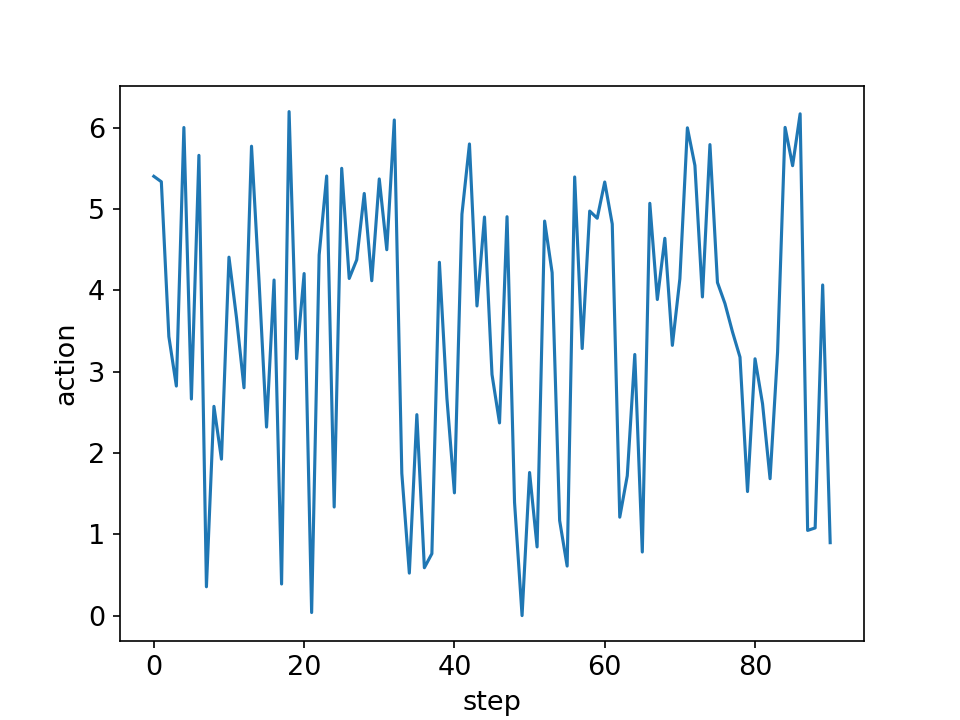
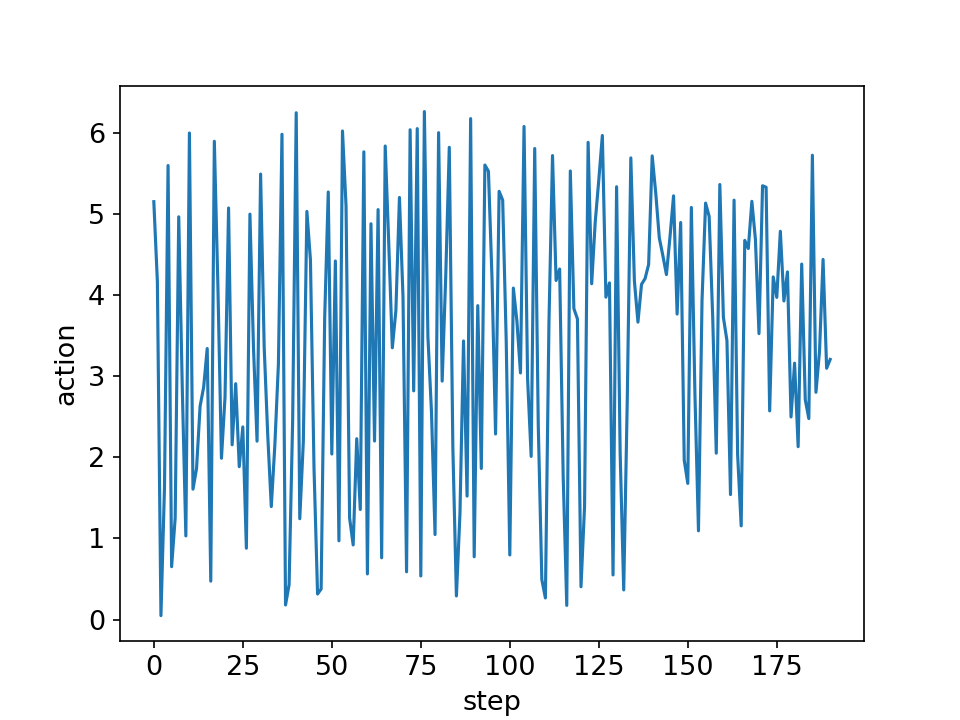
Runtime Plots

diff --git a/plot_utils.py b/plot_utils.py
@@ -6,26 +6,33 @@ import shutil
 class RLPlotter():
     def __init__(self, logger):
         self.logger = logger
-        self.plot_episode_actions()
-        self.plot_episode_losses()
-        self.plot_episode_steps()
-        self.plot_losses()
-        self.plot_episode_paths()
 
-    def plot_episode_losses(self):
+    def clear_plots(self):
+        clear_folder('episode_losses')
+        clear_folder('episode_actions')
+        clear_folder('episode_paths')
+        clear_folder('run_losses')
+        clear_folder('episode_steps')
+
+    def plot_last_episode(self):
+        self.plot_last_episode_losses()
+        self.plot_last_episode_actions()
+        self.plot_last_episode_paths()
+        self.plot_last_losses()
+        self.plot_last_episode_steps()
+
+    def plot_last_episode_losses(self):        
         folder = os.path.join('logs', 'episode_losses')
-        shutil.rmtree(folder, ignore_errors=True)
-        os.makedirs(folder, exist_ok=True)
-        for i in range(len(self.logger.episode_losses)):
-            x = np.arange(len(self.logger.episode_losses[i]))
-            plt.plot(x, self.logger.episode_losses[i])
-            plt.xlabel('step')
-            plt.ylabel('loss')
-            plt.title(f'Episode {i} MSE')
-            plt.savefig(os.path.join(folder, f'episode{i}_losses.png'))
-            plt.clf()
+        i = len(self.logger.episode_losses)-1
+        x = np.arange(len(self.logger.episode_losses[i]))
+        plt.plot(x, self.logger.episode_losses[i])
+        plt.xlabel('step')
+        plt.ylabel('loss')
+        plt.title(f'Episode {i} MSE')
+        plt.savefig(os.path.join(folder, f'episode{i}_losses.png'))
+        plt.clf()
 
-    def plot_losses(self):
+    def plot_last_losses(self):
         folder = os.path.join('logs', 'run_losses')
         shutil.rmtree(folder, ignore_errors=True)
         os.makedirs(folder, exist_ok=True)
@@ -37,7 +44,7 @@ class RLPlotter():
         plt.savefig(os.path.join(folder, 'run_losses.png'))
         plt.clf()
 
-    def plot_episode_steps(self):
+    def plot_last_episode_steps(self):
         folder = os.path.join('logs', 'episode_steps')
         shutil.rmtree(folder, ignore_errors=True)
         os.makedirs(folder, exist_ok=True)
@@ -47,43 +54,37 @@ class RLPlotter():
         plt.ylabel('steps')
         plt.savefig(os.path.join(folder, 'episode_steps.png'))
         plt.clf()
-
-    def plot_episode_actions(self):
-        folder = os.path.join('logs', 'episode_actions')
-        shutil.rmtree(folder, ignore_errors=True)
-        os.makedirs(folder, exist_ok=True)
-        for i in range(len(self.logger.episode_actions)):
-            x = np.arange(len(self.logger.episode_actions[i]))
-            plt.plot(x, self.logger.episode_actions[i])
-            plt.xlabel('step')
-            plt.ylabel('action')
-            plt.savefig(os.path.join(folder, f'episode{i}_actions.png'))
-            plt.clf()
     
-    def plot_episode_paths(self):
-        folder = os.path.join('logs', 'episode_paths')
-        shutil.rmtree(folder, ignore_errors=True)
-        os.makedirs(folder, exist_ok=True)
-        for i in range(len(self.logger.episode_states)):
-            x = np.array(self.logger.episode_states[i])[:,0,0]
-            y = np.array(self.logger.episode_states[i])[:,0,1]
-            print(f'std_x = {np.round(x.std(),1)}, std_y = {np.round(y.std(),1)}')
-            plot_normalized_mexican_hat_potential()
-            plt.plot(x, y)
-            plt.xlabel('x')
-            plt.ylabel('y')
-            plt.title(f'Episode {i} Path')
-            plt.savefig(os.path.join(folder, f'episode{i}_path.png'))
-            plt.clf()
+    def plot_last_episode_actions(self):
+        folder = os.path.join('logs', 'episode_actions')
+        i = len(self.logger.episode_actions) - 1
+        x = np.arange(len(self.logger.episode_actions[i]))
+        plt.plot(x, self.logger.episode_actions[i])
+        plt.xlabel('step')
+        plt.ylabel('action')
+        plt.savefig(os.path.join(folder, f'episode{i}_actions.png'))
+        plt.clf()
 
+    def plot_last_episode_paths(self):
+        folder = os.path.join('logs', 'episode_paths')
+        i = len(self.logger.episode_states) - 1
+        x = np.array(self.logger.episode_states[i])[:,0,0]
+        y = np.array(self.logger.episode_states[i])[:,0,1]
+        plot_normalized_mexican_hat_potential()
+        plt.plot(x, y)
+        plt.xlabel('x')
+        plt.ylabel('y')
+        plt.title(f'Episode {i} Path')
+        plt.savefig(os.path.join(folder, f'episode{i}_path.png'))
+        plt.clf()
 
 def plot_normalized_mexican_hat_potential():
     x,y = np.meshgrid(np.linspace(-1,1,100),np.linspace(-1,1,100))
     bool = (x**2+y**2)**0.5>0.5
     Potential = 16*(x**2+y**2-0.25)**2
     Potential[bool] = 0
-    plt.xlim(-0.8,0.8)
-    plt.ylim(-0.8,0.8)
+    plt.xlim(-1,1)
+    plt.ylim(-1,1)
     plt.scatter(-0.5,0,c='black',label='start',marker='D')    
     plt.scatter(0.5,0,c='black',label='goal',marker='x')
 
@@ -91,5 +92,10 @@ def plot_normalized_mexican_hat_potential():
     colorbar = plt.colorbar()
     colorbar.set_label(r'$U/U_0$',labelpad=10,fontsize = 20)
     colorbar.set_ticks([0, 0.25, 0.5, 0.75, 1.0])
+
+def clear_folder(folder_name):
+    folder = os.path.join('logs', folder_name)
+    shutil.rmtree(folder, ignore_errors=True)
+    os.makedirs(folder, exist_ok=True)
 
 
